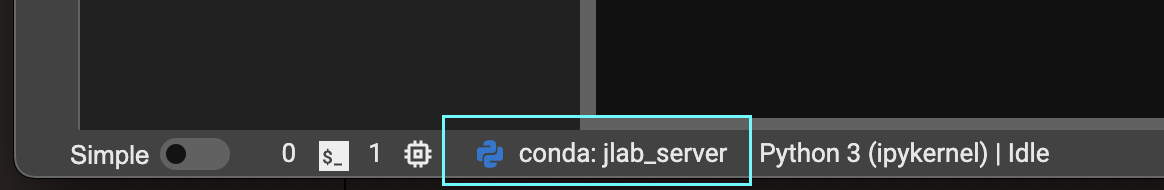
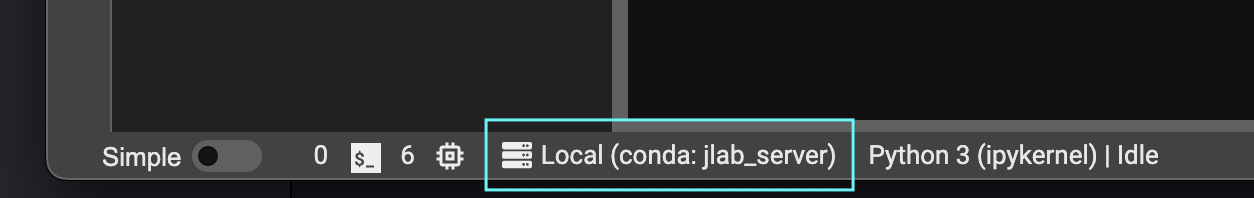
add remote server connection documentation

Changed region(s): [[0.0, 0.0, 1.0, 1.0]]

diff --git a/user-guide.md b/user-guide.md
@@ -6,23 +6,33 @@ JupyterLab Desktop comes with a bundled Python environment which has the essenti
 
 <img src="media/python-env-status.png" alt="Python environment status" height=100 />
 
-- Click on the status item to launch Python environment selector dialog.
+- Click on the status item to launch JupyterLab Server Configuration dialog.
 
-<img src="media/python-env-select.png" alt="Select Python environment" height=300 />
+<img src="media/python-env-select.png" alt="Select Python environment" height=600 />
 
 - Choose `Use a custom Python environment` option and then click `Select Python path` button.
 
-- Select the Python executable (`python.exe` on Windows and `python` on macOS & Linux) of the custom environment you would like to use. Python executable can be found at the root directory of the virtual environment on Windows and in then `bin` directory of the environment on macOS & Linux.
+- Select the Python executable (`python.exe` on Windows and `python` on macOS & Linux) of the custom environment you would like to use. Python executable can be found at the root directory of the virtual environment on Windows and in the `bin` directory of the environment on macOS & Linux.
 
 - Click `Apply and restart` to apply the changes. Newly selected environment will be checked for compatibility before applying the changes and you will be notified of any incompatibility issues.
 
-Python environment selection is saved in application settings and restored at application launch time. During launch, compatibility of the Python environment is checked and if found incompatible, Python environment selector dialog is shown to allow switching back to the bundled environment or using another compatible environment.
+Python environment selection is saved in application settings and restored at application launch time. During launch, compatibility of the Python environment is checked and if found incompatible, JupyterLab Server Configuration dialog is shown to allow switching back to the bundled environment or using another compatible environment.
 
 Application settings are stored in JSON format in the following locations. You can check the `pythonPath` setting in this file for troubleshooting. Setting it to empty string will cause JupyterLab Desktop to reset to the bundled Python environment.
 
 - Windows: `%APPDATA%\jupyterlab-desktop\jupyterlab-desktop-data`
 - macOS: `~/Library/jupyterlab-desktop/jupyterlab-desktop-data`
 - Linux: `$XDG_CONFIG_HOME/jupyterlab-desktop/jupyterlab-desktop-data` or `~/.config/jupyterlab-desktop/jupyterlab-desktop-data`
+
+# Connecting to a remote JupyterLab Server
+
+JupyterLab Desktop has two main components: the desktop client that is the frontend and the JupyterLab server which is the backend of the application. Frontend is designed to connect to any compatible JupyterLab server as its backend. JupyterLab Desktop can automatically launch a JupyterLab server at startup and connect to it, and it can also connect to an existing JupyterLab server instance that is running locally or remotely.
+
+<img src="media/remote-server.png" alt="Remote Server configuration" height=600 />
+
+JupyterLab Server Configuration dialog lets you configure the backend connection by providing `Start new local JupyterLab Server` and `Connect to remote JupyterLab Server` options. In order to connect to an existing JupyterLab server, select `Connect to remote JupyterLab Server` and enter the URL of the JupyterLab application including `/lab` in the URL. If the server requires a token for authentication, make sure to include it as a query parameter of the URL as well (`/lab?token=<token-value>`). Click the `Validate` button to test the connection and check if the URL is for a valid JupyterLab server.
+
+JupyterLab Desktop can connect to remote server instances that require additional authentication such as Single Sign-On (SSO). If the `Persist session data` option is checked, then the session information is stored and JupyterLab Desktop will re-use this data on the next launch. If this option is not checked, the session data is automatically deleted at next launch and servers requiring authentication will prompt for re-login. You can delete the stored session data manually at any time by clicking the `Clear session data` button. Session data is automatically deleted when server URL is updated and when user switches to `Start new local JupyterLab Server` option as well.
 
 ## How to create a Custom Python Environment
 
